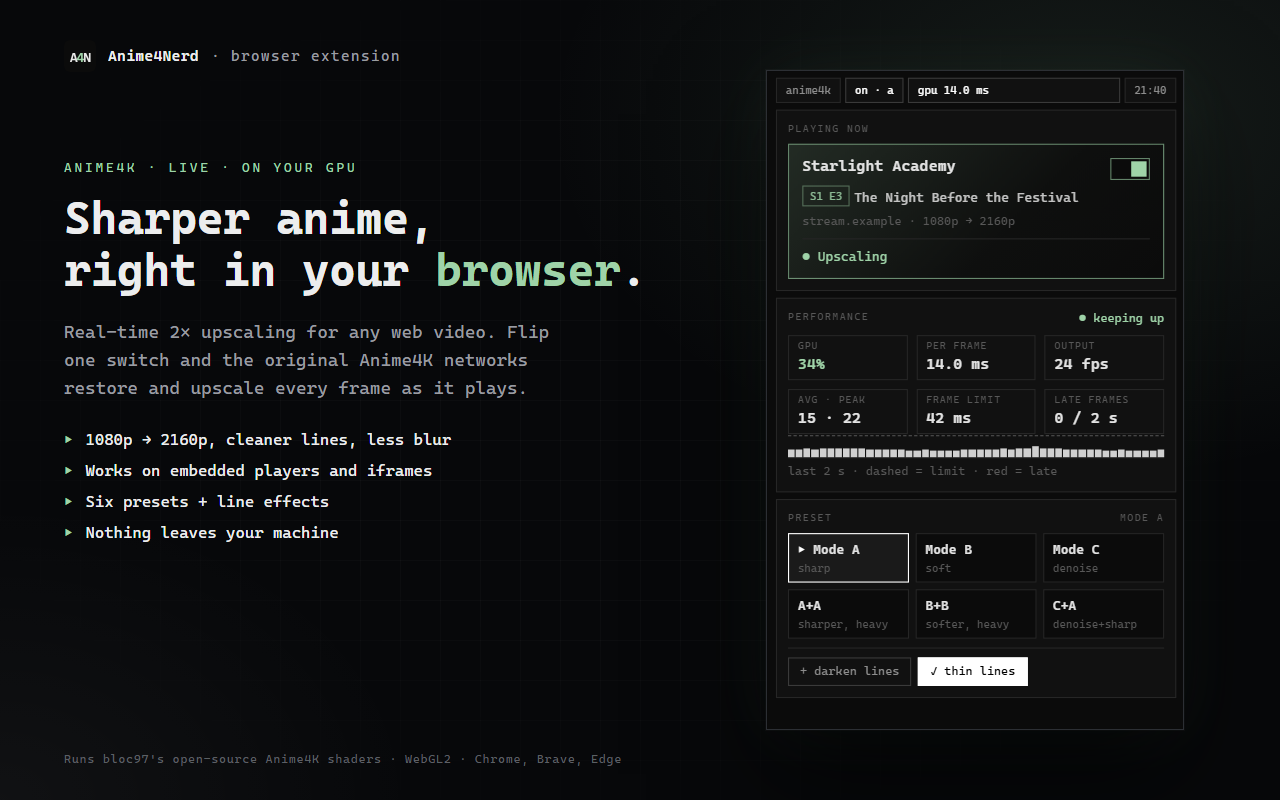
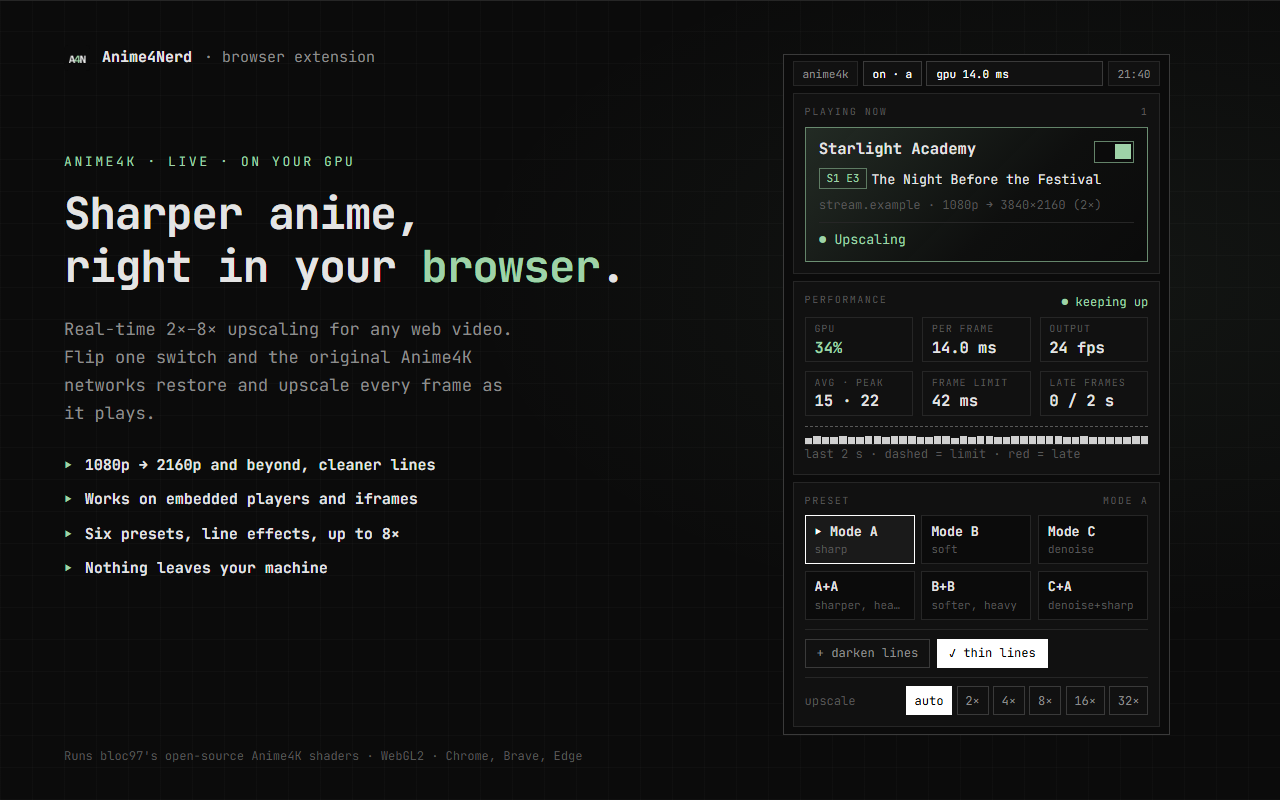
docs(store): 1.1 screenshots and their generator
Regenerate the hero shot with the upscale row and add a fullscreen-menu shot,
both rendered from docs/store/shots.html with headless Edge. The store upload
order now drops the performance shot (the store allows five).

diff --git a/docs/store/shots.html b/docs/store/shots.html
@@ -1,0 +1,180 @@
+<!doctype html>
+<html lang="en">
+<head>
+<meta charset="utf-8">
+<title>Anime4Nerd store screenshots</title>
+<!-- Source for the 1280x800 Chrome Web Store screenshots. ?s=hero or ?s=fullscreen picks the slide.
+     Render: msedge --headless --window-size=1280,800 --screenshot=out.png "file:///.../shots.html?s=hero" -->
+<link rel="stylesheet" href="https://fonts.googleapis.com/css2?family=JetBrains+Mono:wght@400;500;600;700;800&display=swap">
+<link rel="stylesheet" href="../../site/assets/site.css">
+<style>
+  html, body { width: 1280px; height: 800px; overflow: hidden; }
+  body { position: relative; background:
+    radial-gradient(900px 500px at 85% 35%, rgba(159, 211, 168, .05), transparent 70%),
+    repeating-linear-gradient(0deg, rgba(255, 255, 255, .018) 0 1px, transparent 1px 32px),
+    repeating-linear-gradient(90deg, rgba(255, 255, 255, .018) 0 1px, transparent 1px 32px), #0b0b0b; }
+  .slide { display: none; position: absolute; inset: 0; }
+  .slide.on { display: block; }
+  .brand { position: absolute; left: 64px; top: 44px; display: flex; align-items: center; gap: 12px; font-weight: 700; font-size: 15px; }
+  .brand img { width: 26px; height: 26px; }
+  .brand span { color: var(--dim); font-weight: 400; }
+  .kicker { color: var(--ok); font-size: 13px; letter-spacing: .2em; text-transform: uppercase; }
+  h1.big { font-size: 44px; line-height: 1.2; letter-spacing: -.02em; margin: 14px 0 22px; }
+  h1.big em { font-style: normal; color: var(--ok); }
+  .lede { color: var(--dim); font-size: 17px; line-height: 1.65; margin: 0 0 26px; }
+  .ticks { list-style: none; margin: 0; padding: 0; display: grid; gap: 9px; font-size: 15px; font-weight: 600; }
+  .ticks li::before { content: "▸"; color: var(--ok); margin-right: 12px; }
+  .foot { position: absolute; left: 64px; bottom: 34px; color: var(--faint); font-size: 12px; }
+  .left { position: absolute; left: 64px; top: 150px; width: 600px; }
+
+  /* hero: the popup replica from the website, scaled up */
+  .pp { position: absolute; right: 100px; top: 48px; zoom: 1.1; }
+  .pp .pills-label { color: var(--faint); font-size: 11px; align-self: center; margin-right: auto; }
+  #ups { gap: 4px; }
+  #ups .pill { padding: 4px 7px; }
+
+  /* fullscreen: a player frame with the real menu styles (src/fullscreen-menu.ts) */
+  .player { position: absolute; right: 48px; top: 130px; width: 720px; height: 405px; border: 1px solid var(--line2); background: #000 url(../../site/assets/frame-after.png) center / cover; box-shadow: 0 40px 80px -40px #000; }
+  .player::after { content: ""; position: absolute; inset: 0; background: linear-gradient(transparent 70%, rgba(0, 0, 0, .55)); }
+  .player .ctl { position: absolute; left: 16px; right: 16px; bottom: 14px; z-index: 1; display: flex; align-items: center; gap: 12px; color: #ddd; font-size: 12px; }
+  .player .ctl .track { flex: 1; height: 3px; background: rgba(255, 255, 255, .25); }
+  .player .ctl .track i { display: block; width: 62%; height: 100%; background: #fff; }
+  .fsm { position: absolute; top: 12px; right: 12px; z-index: 2; display: flex; flex-direction: column; align-items: flex-end; gap: 6px; zoom: 1;
+    font: 12px/1.5 var(--mono); color: #e4e4e4; }
+  .fsm .toggle { width: 34px; height: 34px; border: 1px solid #e4e4e4; background: rgba(11, 11, 11, .85); font-size: 16px; display: grid; place-items: center; }
+  .fsm .fpanel { width: 260px; padding: 10px; border: 1px solid #3a3a3a; background: rgba(11, 11, 11, .94); display: grid; gap: 8px; }
+  .fsm .head { display: flex; justify-content: space-between; align-items: center; }
+  .fsm .meta { color: #8d8d8d; font-size: 11px; }
+  .fsm .perf { font-size: 11px; color: #9fd3a8; }
+  .fsm .graph { position: relative; display: flex; align-items: flex-end; gap: 1px; height: 24px; }
+  .fsm .graph i { flex: 1; background: #d0d0d0; }
+  .fsm .graph s { position: absolute; left: 0; right: 0; border-top: 1px dashed #585858; }
+  .fsm .flabel { color: #585858; font-size: 10px; text-transform: uppercase; letter-spacing: .08em; }
+  .fsm .frow { display: flex; flex-wrap: wrap; gap: 4px; }
+  .fsm .opt { border: 1px solid #3a3a3a; color: #8d8d8d; padding: 3px 8px; font-size: 11px; }
+  .fsm .opt.sel { background: #fff; border-color: #fff; color: #000; }
+  .fsm .opt.power { background: #9fd3a8; border-color: #9fd3a8; color: #000; }
+  .fsm .effect::before { content: "+ "; }
+  .fsm .effect.sel::before { content: "✓ "; }
+  .cap { position: absolute; right: 48px; top: 552px; width: 720px; color: var(--faint); font-size: 12px; text-align: right; }
+  .left.fs { top: 190px; width: 470px; }
+  .left.fs .lede { font-size: 16px; }
+</style>
+</head>
+<body>
+
+<section class="slide" id="hero">
+  <div class="brand"><img src="../../icons/128.png" alt="">Anime4Nerd <span>· browser extension</span></div>
+  <div class="left">
+    <div class="kicker">anime4k · live · on your gpu</div>
+    <h1 class="big">Sharper anime,<br>right in your <em>browser</em>.</h1>
+    <p class="lede">Real-time 2×–8× upscaling for any web video. Flip one switch and the original Anime4K networks restore and upscale every frame as it plays.</p>
+    <ul class="ticks">
+      <li>1080p → 2160p and beyond, cleaner lines</li>
+      <li>Works on embedded players and iframes</li>
+      <li>Six presets, line effects, up to 8×</li>
+      <li>Nothing leaves your machine</li>
+    </ul>
+  </div>
+  <div class="pp">
+    <div class="bar"><span class="chip">anime4k</span><span class="chip on">on · a</span><span class="chip grow on">gpu 14.0 ms</span><span class="chip">21:40</span></div>
+    <section class="panel">
+      <div class="panel-head"><span>playing now</span><span>1</span></div>
+      <div class="source on">
+        <div class="line"><span class="title">Starlight Academy</span><label class="switch"><input type="checkbox" checked></label></div>
+        <div><span class="tag">S1 E3</span><span>The Night Before the Festival</span></div>
+        <div class="meta">stream.example · 1080p → 3840×2160 (2×)</div>
+        <div class="hr"></div>
+        <div class="state">● Upscaling</div>
+      </div>
+    </section>
+    <section class="panel">
+      <div class="panel-head"><span>performance</span><span class="verdict ok">● keeping up</span></div>
+      <div class="kv">
+        <div><span>GPU</span><b class="ok">34%</b></div>
+        <div><span>Per frame</span><b>14.0 ms</b></div>
+        <div><span>Output</span><b>24 fps</b></div>
+        <div><span>Avg · peak</span><b>15 · 22</b></div>
+        <div><span>Frame limit</span><b>42 ms</b></div>
+        <div><span>Late frames</span><b>0 / 2 s</b></div>
+      </div>
+      <div class="bars" data-bars="14"><s style="bottom:80%"></s></div>
+      <div class="meta">last 2 s · dashed = limit · red = late</div>
+    </section>
+    <section class="panel">
+      <div class="panel-head"><span>preset</span><span>mode a</span></div>
+      <div class="grid">
+        <button class="tile" aria-checked="true"><b>Mode A</b><small>sharp</small></button>
+        <button class="tile"><b>Mode B</b><small>soft</small></button>
+        <button class="tile"><b>Mode C</b><small>denoise</small></button>
+        <button class="tile"><b>A+A</b><small>sharper, heavy</small></button>
+        <button class="tile"><b>B+B</b><small>softer, heavy</small></button>
+        <button class="tile"><b>C+A</b><small>denoise+sharp</small></button>
+      </div>
+      <div class="pills">
+        <button class="pill" aria-checked="false">darken lines</button>
+        <button class="pill" aria-checked="true">thin lines</button>
+      </div>
+      <div class="pills" id="ups">
+        <span class="pills-label">upscale</span>
+        <button class="pill" role="radio" aria-checked="true">auto</button>
+        <button class="pill" role="radio" aria-checked="false">2×</button>
+        <button class="pill" role="radio" aria-checked="false">4×</button>
+        <button class="pill" role="radio" aria-checked="false">8×</button>
+        <button class="pill" role="radio" aria-checked="false">16×</button>
+        <button class="pill" role="radio" aria-checked="false">32×</button>
+      </div>
+    </section>
+  </div>
+  <div class="foot">Runs bloc97's open-source Anime4K shaders · WebGL2 · Chrome, Brave, Edge</div>
+</section>
+
+<section class="slide" id="fullscreen">
+  <div class="brand"><img src="../../icons/128.png" alt="">Anime4Nerd</div>
+  <div class="left fs">
+    <div class="kicker">new in 1.1</div>
+    <h1 class="big">Change it without<br>leaving <em>fullscreen</em>.</h1>
+    <p class="lede">Move the mouse and a ☰ button appears in the player's corner. Switch it on or off, pick a preset or line effect, and set how far to upscale.</p>
+    <ul class="ticks">
+      <li>Upscale: auto, 2×, 4×, 8× and up</li>
+      <li>Exact output size, and a note if your GPU caps it</li>
+      <li>Live GPU graph while you choose</li>
+      <li>Fades away; clicks never reach the player</li>
+    </ul>
+  </div>
+  <div class="player">
+    <div class="fsm">
+      <div class="toggle">✕</div>
+      <div class="fpanel">
+        <div class="head"><b>anime4nerd</b><span class="opt power">on</span></div>
+        <div class="meta">720p → 5120×2880 (4×)</div>
+        <div class="perf">gpu 16.4 ms / 42 ms · keeping up</div>
+        <div class="graph" data-bars="16.4"><s style="top:0"></s></div>
+        <div><div class="flabel">preset</div><div class="frow"><span class="opt sel">Mode A</span><span class="opt">Mode B</span><span class="opt">Mode C</span><span class="opt">A+A</span><span class="opt">B+B</span><span class="opt">C+A</span></div></div>
+        <div class="frow"><span class="opt effect">darken lines</span><span class="opt effect sel">thin lines</span></div>
+        <div><div class="flabel">upscale</div><div class="frow"><span class="opt">auto</span><span class="opt">2×</span><span class="opt sel">4×</span><span class="opt">8×</span><span class="opt">16×</span><span class="opt">32×</span></div></div>
+      </div>
+    </div>
+    <div class="ctl"><span>▶</span><span>18:04 / 24:13</span><span class="track"><i></i></span><span>⛶</span></div>
+  </div>
+  <div class="cap">Measured on 720p, Mode A: 8.2 ms per frame at 2×, 16.4 ms at 4×. A 24 fps video allows 42 ms.</div>
+  <div class="foot">Frame: Morevna Project, CC BY 3.0</div>
+</section>
+
+<script>
+  // Pick the slide, then fill the frame-time bars deterministically around each panel's cost.
+  var s = new URLSearchParams(location.search).get('s') || 'hero';
+  document.getElementById(s).classList.add('on');
+  var LIMIT = 41.7, seed = 7;
+  var rnd = function () { seed = (seed * 16807) % 2147483647; return seed / 2147483647; };
+  document.querySelectorAll('[data-bars]').forEach(function (box) {
+    var cost = Number(box.dataset.bars), n = box.classList.contains('graph') ? 48 : 40;
+    for (var i = 0; i < n; i++) {
+      var b = document.createElement('i');
+      b.style.height = Math.min(100, cost * (0.88 + rnd() * 0.3) / LIMIT * 100) + '%';
+      box.insertBefore(b, box.querySelector('s'));
+    }
+  });
+</script>
+</body>
+</html>

diff --git a/docs/STORE_LISTING.md b/docs/STORE_LISTING.md
@@ -39,12 +39,16 @@ Screenshot credits: the before/after image uses "A snapshot from the 2012 demo r
 - Host permission `<all_urls>`: video players are embedded from many different domains (the page and the player's host differ), so the extension must be able to find a `<video>` in any frame. It reads frames only from videos the user switches on and sends nothing anywhere.
 - Single purpose: upscale video on pages the user enables.
 
-**Screenshots (ready, 1280×800, in `docs/store/`, upload in this order):**
-1. `anime4nerd-1-hero.png`: headline + the popup.
+**Screenshots (ready, 1280×800, in `docs/store/`, upload in this order; the store allows 5):**
+1. `anime4nerd-1-hero.png`: headline + the popup, with the upscale row (regenerated for 1.1.0).
 2. `anime4nerd-2-compare.png`: before/after wipe (A+A + darken lines) on a Morevna Project frame (CC BY 3.0, credited on the image).
-3. `anime4nerd-3-presets.png`: the six presets explained.
-4. `anime4nerd-4-performance.png`: the GPU meter explained.
+3. `anime4nerd-6-fullscreen.png`: the fullscreen ☰ menu and upscale factors (new in 1.1.0).
+4. `anime4nerd-3-presets.png`: the six presets explained.
 5. `anime4nerd-5-privacy.png`: privacy summary.
+
+`anime4nerd-4-performance.png` (the GPU meter explained) is retired from the upload: the hero and
+fullscreen shots both show the meter. The 1.1.0 images are rendered from `docs/store/shots.html`
+with headless Edge (command in the file).
 
 The popup shows a fictional title ("Starlight Academy") on purpose: no real show names or frames.
 
